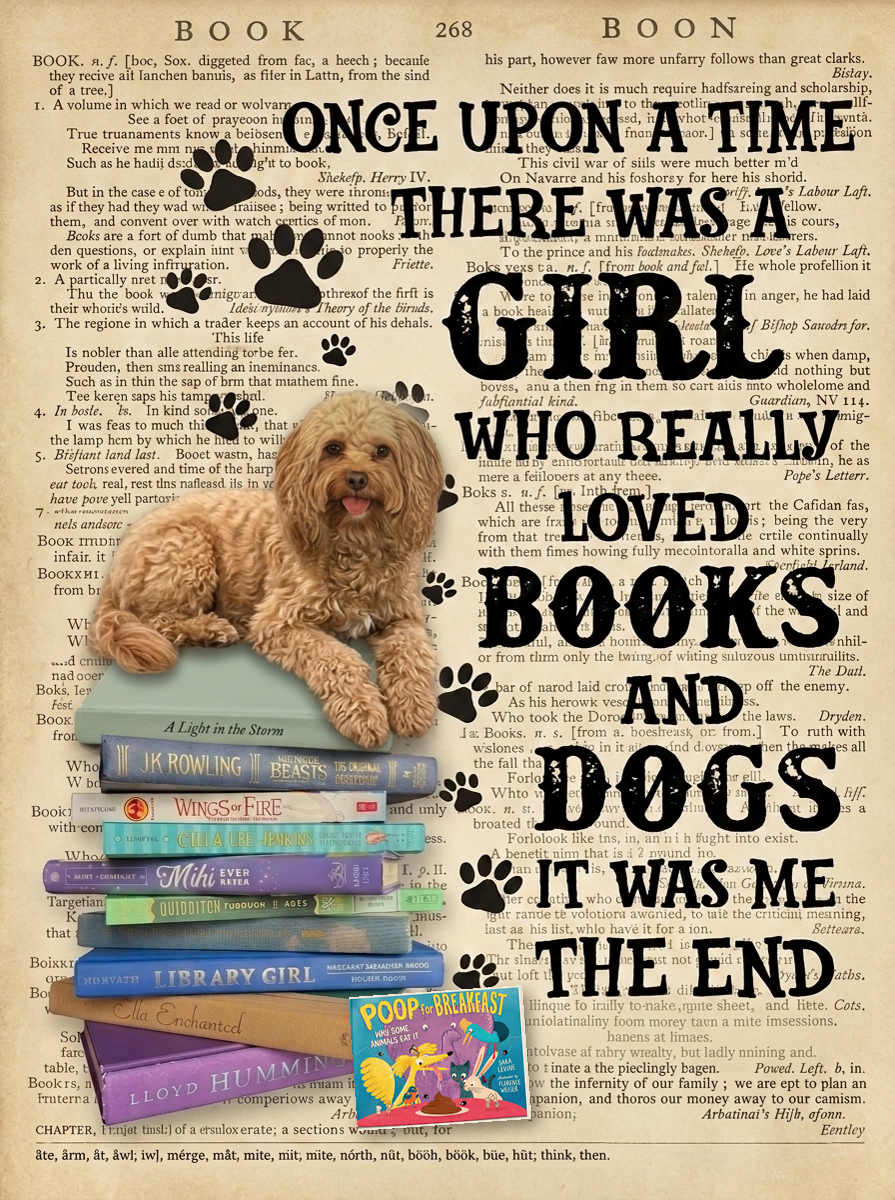
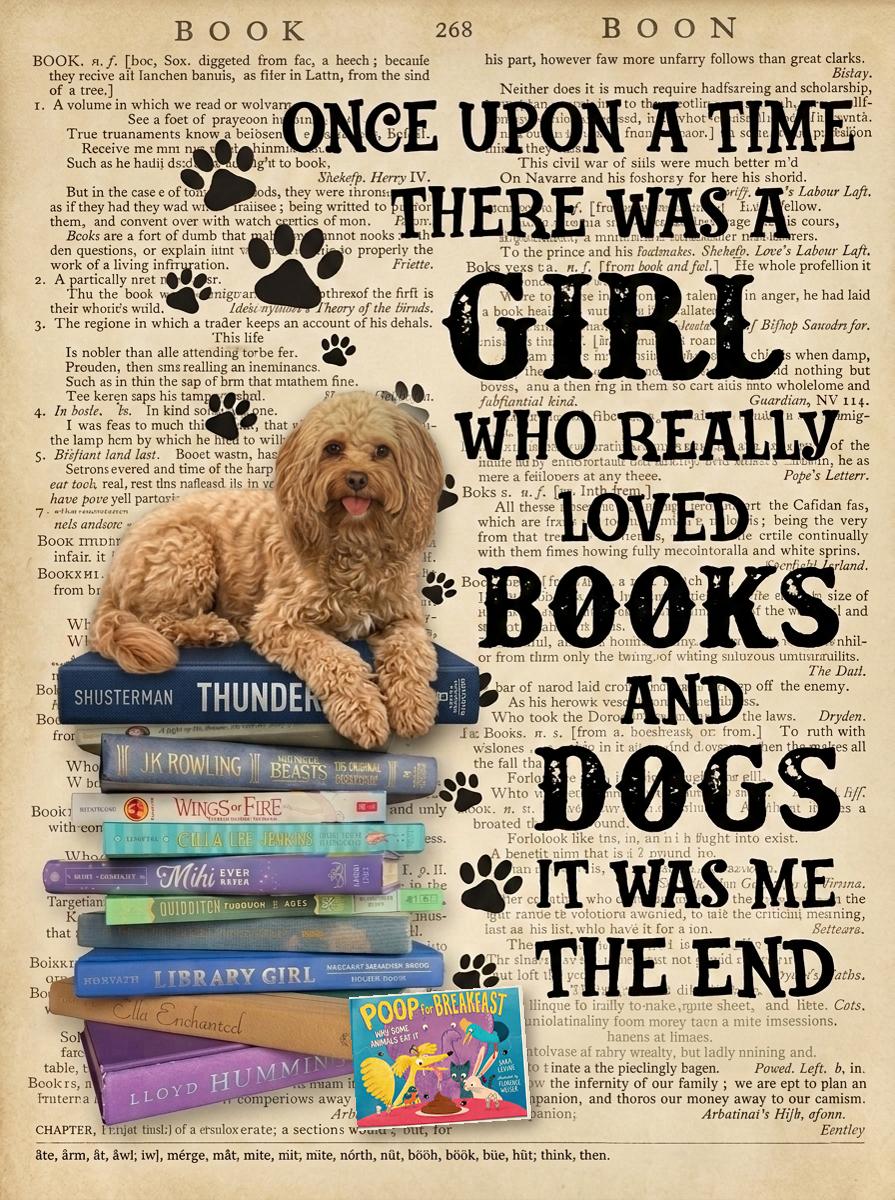
Use Thunderhead for the top book

Changed region(s): [[0.0603, 0.5242, 0.543, 0.6475], [0.3922, 0.5242, 0.4223, 0.5858]]

diff --git a/index.html b/index.html
@@ -1,9 +1,9 @@
 <!doctype html><meta charset=utf-8><title>Peanut poster previews</title>
 <style>body{font-family:sans-serif;background:#222;color:#eee;margin:16px}div{display:flex;gap:16px;flex-wrap:wrap}figure{margin:0}img{max-height:90vh;max-width:100%}h2{font-weight:500}</style>
-<h2>Latest options (duplicate top book replaced with "A Light in the Storm")</h2>
-<div><figure><img src=opt_cover_corner.png?v=2><figcaption>Option 1: real cover in the bottom-right corner, below THE END</figcaption></figure>
-<figure><img src=opt_cover_stack.png?v=2><figcaption>Option 2: real cover propped in front of the bottom of the stack</figcaption></figure>
-<figure><img src=opt_nocover.png><figcaption>Option 3: no cover</figcaption></figure></div>
+<h2>Latest options (duplicate top book replaced with Thunderhead)</h2>
+<div><figure><img src=opt_cover_corner.png?v=3><figcaption>Option 1: real cover in the bottom-right corner, below THE END</figcaption></figure>
+<figure><img src=opt_cover_stack.png?v=3><figcaption>Option 2: real cover propped in front of the bottom of the stack</figcaption></figure>
+<figure><img src=opt_nocover.png?v=3><figcaption>Option 3: no cover</figcaption></figure></div>
 <h2>Earlier today: photo-real body to match Peanut's head</h2>
 <div><figure><img src=latest_headrestored.png><figcaption>Recommended: your original head kept, body re-rendered photo-real, duplicate "THE END" removed</figcaption></figure>
 <figure><img src=latest_bodyfix.png><figcaption>AI edit only (duplicate "THE END" removed) &ndash; note the face changed</figcaption></figure>
